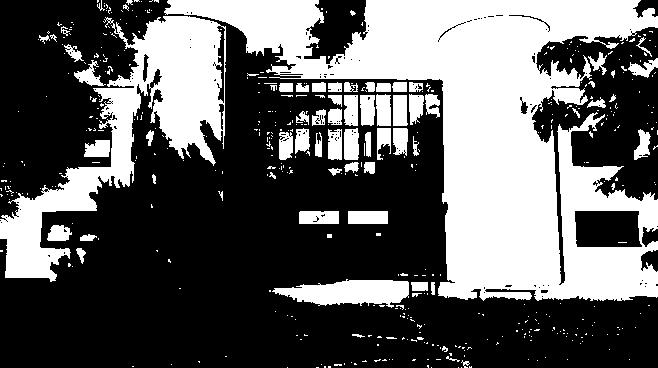
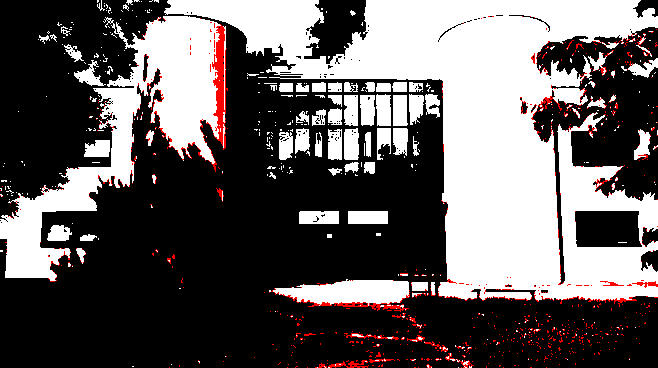
readme

diff --git a/README.md b/README.md
@@ -1,15 +1,325 @@
-# Question 2
+## DEPONT Samuel
+## FERDOEL TITOUAN
 
-## Afin d'ouvrir une image depuis un fichier, on utilise image::open, on obtient alors un DynamicImage qu'on peut passer en RGB8 en utilisant la méthode to_rgb8.
+# TP_DITHERING
 
-# Question 3
+### Question 1 : Créer un nouveau projet Cargo, avec une dépendance sur la bibliothèque image, version 0.24
 
-## Lors de la convertion de l'image en RGB8, si l'image initiale avait une couche alpha, la convertion va simplement supprimer la couche. 
+```
+cargo new TP_DITHERING
+cd TP_DITHERING
+```
 
-# Question 5
+AJout de la dépendance dans le fichier Cargo.toml
 
-## L'image a a juste un filtre blanc.
+```
+[dependencies]
+image = "0.24"
+```
 
-# Question 6
+#### Question 2 : Pour ouvrir une image depuis un fichier, on utilise ImageReader::open("myimage.png")?.decode()?; On obtient un DynamicImage, à quoi correspond ce type? Comment obtenir une image en mode rbg8 à partir de ce DynamicImage?
 
-## Afin de récupérer la luminosité d'un pixel, il faut utiliser la formule suivante : 0.2126 * R + 0.7152 * G + 0.0722 * B.
+Afin d'ouvrir une image depuis un fichier, on utilise image::open, on obtient alors un DynamicImage qu'on peut passer en RGB8 en utilisant la méthode to_rgb8.
+
+```
+let rgb_img: RgbImage = img.to_rgb8();
+```
+
+### Question 3 : Sauver l’image obtenue au format png. Que se passe-t-il si l’image de départ avait un canal alpha?
+
+Lors de la convertion de l'image en RGB8, si l'image initiale avait une couche alpha, la convertion va simplement supprimer la couche alpha.
+
+
+### Question 4 : Afficher dans le terminal la couleur du pixel (32, 52) de l’image de votre choix.
+
+```
+use image::GenericImageView;
+
+let pixel = image_iut.get_pixel(32, 52);
+println!("Pixel (32, 52) : {:?}", pixel);
+```
+
+### Question 5 : Passer un pixel sur deux d’une image en blanc. Est-ce que l’image obtenue est reconnaissable?
+
+```
+for y in 0..height {
+    for x in 0..width {
+        if x % 2 == 0 {
+            img.put_pixel(x, y, Rgb([255, 255, 255]));
+        }
+    }
+}
+```
+
+![Image](./images/output/img_iut_blanchir.jpg)
+
+### Question 6 : Comment récupérer la luminosité d’un pixel?
+    L'opération de matriçage des composantes R′, G′ et B′ permet ensuite de construire la luma Y′. 
+    Selon les recommandations UIT-R BT 709, la luma est construite par
+
+    Y = 0,2126*R + 0,7152*G + 0,0722*B 
+
+### Question 7 : Implémenter le traitement
+
+```
+// renvoie la luminosité d'un pixel
+fn luminosite(pixel: &Rgb<u8>) -> u8 {
+    let Rgb(data) = pixel;
+    (0.2126 data[0] as f32 + 0.7152 * data[1] as f32 + 0.0722 * data[2] as f32) as u8
+}
+
+//applie un seuillage monochrome sur une image
+fn apply_seuil(image: &mut RgbImage, couleur_claire: Rgb<u8>, couleur_foncee: Rgb<u8>) {
+    let (width, height) = image.dimensions();
+    for y in 0..height {
+        for x in 0..width {
+            let pixel = image.get_pixel(x, y);
+            let lum = luminosite(pixel);
+            let new_pixel = if lum >= 128 {
+                couleur_claire
+            } else {
+                couleur_foncee
+            };
+            image.put_pixel(x, y, new_pixel);
+        }
+    }
+} 
+```
+
+### Question 8 :  Permettre à l’utilisateurice de remplacer “noir” et “blanc” par une paire de couleurs au choix.
+
+```
+// renvoie une couleur a partie d'un string "R,G,B"
+fn parse_color(colorstr: &str) -> Result<Rgb<u8>, String> {
+    let values: Result<Vec<u8>, > = colorstr
+        .split(',')
+        .map(|s| s.trim().parse::<u8>())
+        .collect();
+
+    match values {
+        Ok(rgb) if rgb.len() == 3 => Ok(Rgb([rgb[0], rgb[1], rgb[2]])),
+         => Err("Format de couleur invalide. Utilisez R,G,B (ex: 255,0,0)".to_string())
+    }
+}
+struct OptsSeuil {
+    /// couleur claire (format R,G,B, ex: "255,0,0" pour rouge)
+    #[argh(option, default = "String::from("255,255,255")")]
+    couleur_claire: String,
+
+    /// couleur foncée (format R,G,B, ex: "0,0,255" pour bleu)
+    #[argh(option, default = "String::from("0,0,0")")]
+    couleur_foncee: String,
+}
+```
+```
+cargo run -- images/input/img_iut.jpg seuil
+```
+pour seuil noir et blanc (par défaut)
+
+![seuil noir et blanc](./images/output/img_iut_seuil.jpg)
+
+```
+cargo run -- images/input/img_iut.jpg seuil --couleur-claire "255,0,0" --couleur-foncee "0,0,255"
+```
+
+
+pour seuil bleu et rouge
+
+![seuil bleu et rouge](./images/output/img_iut_seuil_bleurouge.jpg)
+
+
+### Question 9 : Comment calculer la distance entre deux couleurs?
+
+Pour calculer la distance entre deux couleurs, on peut utiliser la distance euclidienne dans l'espace des couleurs RGB. La formule est la suivante :
+
+```
+const PALETTE: [Rgb<u8>; 8] = [
+    Rgb([0, 0, 0]),
+    Rgb([255, 255, 255]),
+    Rgb([255, 0, 0]),
+    Rgb([0, 255, 0]),
+    Rgb([0, 0, 255]),
+    Rgb([255, 255, 0]),
+    Rgb([0, 255, 255]),
+    Rgb([255, 0, 255]),
+];
+
+fn distance_euclidienne(c1: Rgb<u8>, c2: Rgb<u8>) -> f64 {
+    let r = c1[0] as f64 - c2[0] as f64;
+    let g = c1[1] as f64 - c2[1] as f64;
+    let b = c1[2] as f64 - c2[2] as f64;
+    (r * r + g * g + b * b).sqrt()
+}
+
+fn plus_proche_couleur(c: Rgb<u8>, palette: &[Rgb<u8>]) -> Rgb<u8> {
+    let mut min_distance = f64::INFINITY;
+    let mut plus_proche = palette[0];
+    for couleur in palette {
+        let distance = distance_euclidienne(c, *couleur);
+        if distance < min_distance {
+            min_distance = distance;
+            plus_proche = *couleur;
+        }
+    }
+    plus_proche
+}
+
+fn apply_palette(img: RgbImage, n_couleurs: usize) -> RgbImage {
+    let mut new_img = img.clone();
+    for pixel in new_img.pixels_mut() {
+        *pixel = plus_proche_couleur(*pixel, &PALETTE[..n_couleurs]);
+    }
+    new_img
+}
+```
+
+Cette fonction prend deux couleurs en entrée et retourne la distance euclidienne entre elles.
+
+### Question 11 : Votre application doit se comporter correctement si on donne une palette vide.
+expliquerez dans votre README le choix que vous avez fait dans ce cas.
+
+Si la palette est vide, la fonction plus_proche_couleur retourne la couleur noire par défaut. Cela permet de ne pas planter l'application si l'utilisateur ne fournit pas de palette.
+
+exemple d'utilisation :
+
+```
+cargo run -- images/input/img_iut.jpg palette --n-couleurs 1
+```
+
+### Question 12 : Implémenter le tramage aléatoire des images.
+
+```
+cargo run -- images/input/img_iut.jpg tramage
+```
+
+
+image après tramage aléatoire
+
+![seuil bleu et rouge](./images/output/img_iut_tramage_0.5.jpg)
+
+
+### Question 13 : Déterminer 𝐵3.
+
+### Définition des matrices de Bayer :
+
+```
+B0 = [0]
+
+B1 = 1/4 * [0 2
+            3 1]
+
+B2 = 1/16 * [0  8  2 10
+             12 4 14 6
+             3 11 1  9
+             15 7 13 5]
+```
+
+### Calculer B3 :
+
+On utilise la formule :
+```
+Bn+1 = 1/4 * [4⋅Bn     4⋅Bn + 2⋅Un
+              4⋅Bn + 3⋅Un  4⋅Bn + Un]
+```
+où Un est une matrice de taille 2^n × 2^n contenant uniquement des 1.
+
+Taille de B3 : 2^3 × 2^3 = 8 × 8.
+
+```
+U2 = [1 1 1 1
+      1 1 1 1
+      1 1 1 1
+      1 1 1 1]
+```
+
+### Étapes pour B3 :
+
+Utilisons B2 pour former B3. Chaque bloc de B3 est donné par :
+
+- 4⋅B2 : Multiplier chaque élément de B2 par 4.
+- 4⋅B2 + 2⋅U2 : Ajouter 2 à chaque élément de 4⋅B2.
+- 4⋅B2 + 3⋅U2 : Ajouter 3 à chaque élément de 4⋅B2.
+- 4⋅B2 + U2 : Ajouter 1 à chaque élément de 4⋅B2.
+
+### Calcul final :
+
+```math
+B_3 = \frac{1}{64} * \begin{bmatrix}
+0 & 32 & 8 & 40 & 2 & 34 & 10 & 42 \\
+48 & 16 & 56 & 24 & 50 & 18 & 58 & 26 \\
+12 & 44 & 4 & 36 & 14 & 46 & 6 & 38 \\
+60 & 28 & 52 & 20 & 62 & 30 & 54 & 22 \\
+3 & 35 & 11 & 43 & 1 & 33 & 9 & 41 \\
+51 & 19 & 59 & 27 & 49 & 17 & 57 & 25 \\
+15 & 47 & 7 & 39 & 13 & 45 & 5 & 37 \\
+63 & 31 & 55 & 23 & 61 & 29 & 53 & 21
+\end{bmatrix}
+```
+
+### Question 14 : Quel type de données utiliser pour représenter la matrice de Bayer? Comment créer une matrice de Bayer d’ordre arbitraire?
+
+Pour représenter la matrice de Bayer, on peut utiliser un tableau de tableaux de u8. Pour créer une matrice de Bayer d'ordre arbitraire, on doit implémenter une fonction qui génère la matrice en suivant les règles de construction de la matrice de Bayer, soit en étant récursif, soit appelant plusieurs fois la fonction sur la matrice de Bayer de taille inférieure.
+
+### Question 16 : Implémenter un mécanisme de diffusion d’erreur pour les images en noir et blanc.
+
+```
+cargo run -- images/input/img_iut.jpg diffusion
+```
+
+
+image après diffusion d'erreurs
+
+![seuil bleu et rouge](./images/output/img_iut_diffusion.jpg)
+
+### Question 17 : Pour une palette de couleurs comme dans la partie 3, expliquer dans votre README comment vous représentez l’erreur commise à chaque pixel, comment vous la diffusez.
+
+Pour représenter l'erreur commise à chaque pixel dans une palette de couleurs, on doit calculer la différence entre la couleur d'origine du pixel et la couleur choisie dans la palette. Cette différence, ou "erreur", est ensuite diffusée aux pixels voisins qui n'ont pas encore été traités.
+
+Pour la diffusion de l'erreur, on utilise une matrice de diffusion, où chaque valeur indique la proportion d'erreur à envoyer à un voisin donné (par exemple, à droite ou en dessous). Lorsqu'une erreur est calculée, elle est répartie entre les voisins en fonction des coefficients de la matrice.
+
+Dans le cas d'une palette de couleurs, l'erreur est un vecteur RGB et est appliquée à chaque composant de couleur (rouge, vert, bleu).
+
+### Question 18 : Implémenter la diffusion d’erreur pour la palettisation d’images.
+
+```
+cargo run -- images/input/img_iut.jpg diffusion-palette
+```
+
+
+image après diffusion d'erreurs avec une palette de 8 couleurs
+
+![diffusion palette](./images/output/img_iut_diffusion_palette.jpg)
+
+### Question 19 : Implémenter la diffusion d’erreur pour la matrice de Floyd-Steinberg
+
+```
+cargo run -- images/input/img_iut.jpg diffusion-floyd-steinberg
+```
+
+
+image après diffusion d'erreurs avec la matrice de floys steinberg
+
+![diffusion floyd steinberg](./images/output/img_iut_diffusion_floyd_steinberg.jpg)
+
+
+
+### Question 20 : Comment représenter une matrice de diffusion d’erreur arbitraire? Permettre de changer de matrice de diffusion d’erreurs, et tester les matrices de diffusion de Jarvis-Judice-Ninke et Atkinson
+
+Pour implémenter un traitement d'image en utilisant la diffusion d'erreur avec la méthode de Floyd-Steinberg, j'applique une diffusion d'erreur à chaque pixel de l'image, en tenant compte de l'erreur accumulée des pixels précédents. Le processus consiste à:
+
+Lire l'image.
+Pour chaque pixel, je calcule sa luminosité et je détermine la couleur la plus proche parmi les options (blanc ou noir pour un seuil, ou une palette de couleurs si spécifié).
+Calculer l'erreur entre la couleur d'origine et la couleur quantifiée.
+Diffuser cette erreur vers les pixels voisins selon les poids définis par la matrice de Floyd-Steinberg.
+Dans le cas de la diffusion d'erreur avec la palette, j'utilise une palette d'index pour appliquer une couleur quantifiée au pixel en question et la diffuser ensuite.
+
+C'est un processus assez puissant pour convertir une image en noir et blanc ou avec une palette réduite tout en conservant une certaine douceur et des transitions entre les zones de couleurs.
+
+```
+cargo run ./images/input/img_iut.jpg diffusion-matrice --matrice "[[0, 0, 7], [3, 5, 1], [2, 4, 0]]"
+```
+
+
+exemple d'utilisation avec une matrice personnalisée
+
+![diffusion matrice personnalisée](./images/output/img_iut_diffusion_matrice.jpg)
